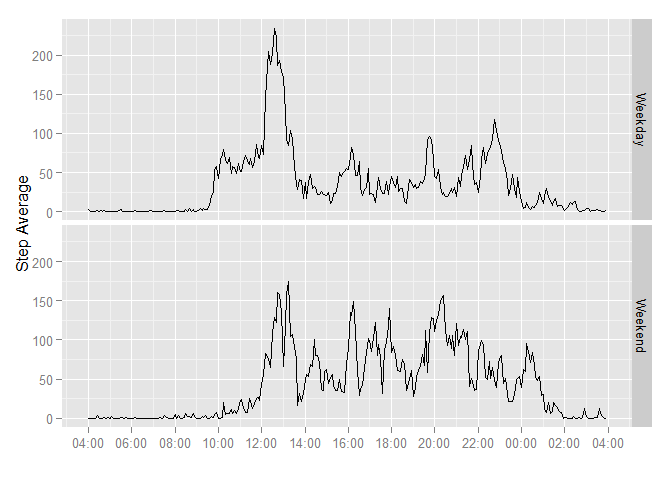
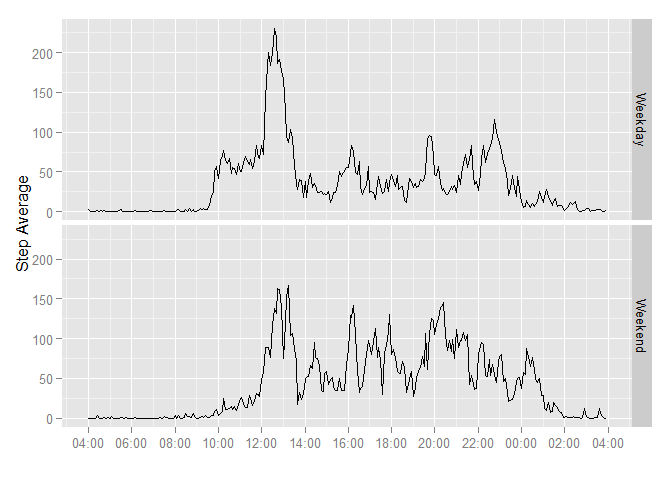
Fixed final data set
Used the imputed data rather than the original for day

diff --git a/PA1_template.html b/PA1_template.html
@@ -68,7 +68,7 @@ img {
 require(dplyr)
 require(ggplot2)
 require(scales)
-opts_chunk$set(echo=TRUE)</code></pre>
+opts_chunk$set(echo=TRUE,message=FALSE)</code></pre>
 <div id="loading-and-preprocessing-the-data" class="section level2">
 <h2>Loading and preprocessing the data</h2>
 <p>First, the data needs to be read into R using the read.csv function (as a note, you’ll already need to be in the directory where the activity.csv file is stored):</p>
@@ -85,7 +85,6 @@ opts_chunk$set(echo=TRUE)</code></pre>
     labs(main=&quot;Total Steps per Day&quot;)+scale_y_continuous(breaks=seq(0,10,2))+
     xlab(&quot;Daily Step Totals&quot;)+ylab(&quot;Count&quot;)
 print(steps.plot)</code></pre>
-<pre><code>## stat_bin: binwidth defaulted to range/30. Use 'binwidth = x' to adjust this.</code></pre>
[1 lines of base64/hex data omitted]
 <p>Finally, we’ll use the data set we created above to check the overall mean and median for the number of steps taken.</p>
 <pre class="r"><code>summarize(steps,mean=mean(total_steps),median=median(total_steps))</code></pre>
@@ -130,7 +129,6 @@ miss&lt;-missing%&gt;%group_by(date)%&gt;%summarise(total_steps=sum(steps))</cod
     labs(main=&quot;Total Steps per Day with Missings Replaced&quot;)+scale_y_continuous(breaks=seq(0,12,2))+
     xlab(&quot;Daily Step Totals&quot;)+ylab(&quot;Count&quot;)
 print(miss.plot)</code></pre>
-<pre><code>## stat_bin: binwidth defaulted to range/30. Use 'binwidth = x' to adjust this.</code></pre>
[1 lines of base64/hex data omitted]
 <p>Finally, we’ll compare the mean and median of the data with imputed values to the original without them.</p>
 <pre class="r"><code>summarize(miss,mean=mean(total_steps),median=median(total_steps))</code></pre>
@@ -148,9 +146,9 @@ print(miss.plot)</code></pre>
 <h2>Are there differences in activity patterns between weekdays and weekends?</h2>
 <p>The simplest way to do this is to use the <code>weekday()</code> command on the ‘date’ variable and create a factor variable based on whether the day is a weekend day or not. Then the data needs to be grouped on the the ‘weekday’ and ‘interval’ variables so that the mean number of steps can be taken.</p>
 <pre class="r"><code>weekend&lt;-c(&quot;Saturday&quot;,&quot;Sunday&quot;)
-data$weekday&lt;-factor((weekdays(data$date) %in% weekend),levels=c(&quot;FALSE&quot;,&quot;TRUE&quot;),
+missing$weekday&lt;-factor((weekdays(data$date) %in% weekend),levels=c(&quot;FALSE&quot;,&quot;TRUE&quot;),
                      labels=c(&quot;Weekday&quot;,&quot;Weekend&quot;))
-day&lt;-data%&gt;%group_by(weekday,interval)%&gt;%
+day&lt;-missing%&gt;%group_by(weekday,interval)%&gt;%
     summarize(average_steps=mean(steps,na.rm=TRUE))
 day$interval&lt;-as.POSIXct(strptime(formatC(day$interval,width=4,flag=0),
                             format=&quot;%H%M&quot;))</code></pre>
@@ -160,7 +158,7 @@ day$interval&lt;-as.POSIXct(strptime(formatC(day$interval,width=4,flag=0),
     ylab(&quot;Step Average&quot;)+facet_grid(weekday~.)+scale_x_datetime(&quot;&quot;,
                                 labels=date_format(&quot;%H:%M&quot;), breaks=&quot;2 hours&quot;)
 print(day.plot)</code></pre>
[2 lines of base64/hex data omitted]
 </div>
 
 

diff --git a/PA1_template.md b/PA1_template.md
@@ -5,7 +5,7 @@ require(knitr)
 require(dplyr)
 require(ggplot2)
 require(scales)
-opts_chunk$set(echo=TRUE)
+opts_chunk$set(echo=TRUE,message=FALSE)
 ```
 
 ## Loading and preprocessing the data
@@ -34,10 +34,6 @@ steps.plot<-ggplot(steps,aes(total_steps))+geom_histogram()+
     labs(main="Total Steps per Day")+scale_y_continuous(breaks=seq(0,10,2))+
     xlab("Daily Step Totals")+ylab("Count")
 print(steps.plot)
-```
-
-```
-## stat_bin: binwidth defaulted to range/30. Use 'binwidth = x' to adjust this.
 ```
 
 ![](PA1_template_files/figure-html/stepsplot-1.png) 
@@ -119,10 +115,6 @@ miss.plot<-ggplot(miss,aes(total_steps))+geom_histogram()+
 print(miss.plot)
 ```
 
-```
-## stat_bin: binwidth defaulted to range/30. Use 'binwidth = x' to adjust this.
-```
-
 ![](PA1_template_files/figure-html/plotcompare-1.png) 
 
 Finally, we'll compare the mean and median of the data with imputed values to the original without them.
@@ -155,9 +147,9 @@ The simplest way to do this is to use the `weekday()` command on the 'date' vari
 
 ```r
 weekend<-c("Saturday","Sunday")
-data$weekday<-factor((weekdays(data$date) %in% weekend),levels=c("FALSE","TRUE"),
+missing$weekday<-factor((weekdays(data$date) %in% weekend),levels=c("FALSE","TRUE"),
                      labels=c("Weekday","Weekend"))
-day<-data%>%group_by(weekday,interval)%>%
+day<-missing%>%group_by(weekday,interval)%>%
     summarize(average_steps=mean(steps,na.rm=TRUE))
 day$interval<-as.POSIXct(strptime(formatC(day$interval,width=4,flag=0),
                             format="%H%M"))
